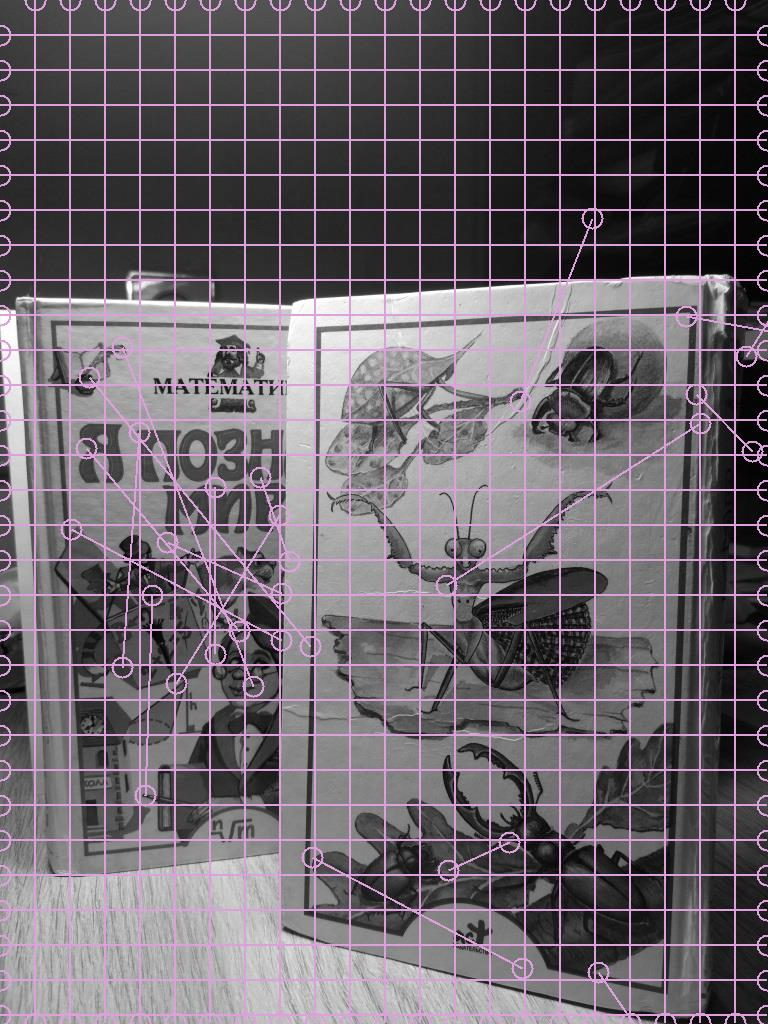
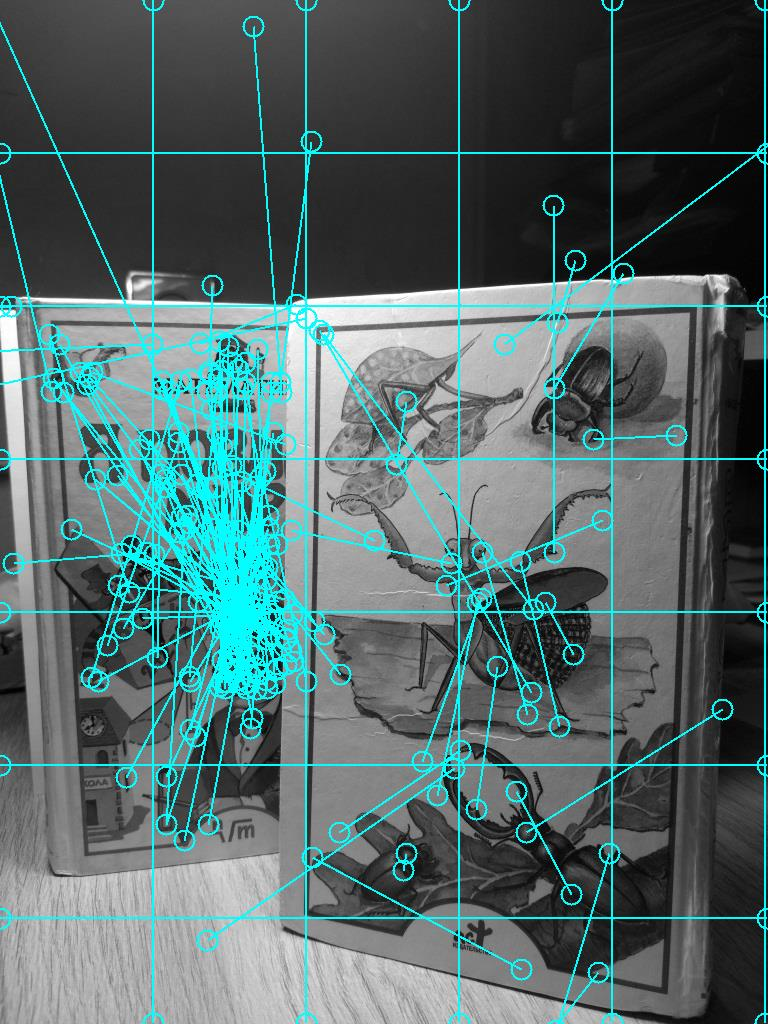
LR09 Внес некоторые изменения в подчет голосов. Точность поиска увеличилась

Changed region(s): [[0.0, 0.0, 1.0, 1.0], [0.3125, 0.9688, 0.3438, 1.0]]

diff --git a/ImageProcessingLabs/Transformation/Hough.cs b/ImageProcessingLabs/Transformation/Hough.cs
@@ -14,12 +14,12 @@ namespace ImageProcessingLabs.Transformation
 
     public class Hough
     {
-        private const int CoordinateStep = 70;
+        private int CoordinateStep = 100;
         private const int AngleCells = 12;
         private const double MinScale = 1 / 4D;
         private const double KScale = 2;
         private const int CellsScale = 4;
-        private const int VotersThreshold = 2;
+        private const int VotersThreshold = 4;
         private readonly Mat image;
         private readonly List<Point[]> objects = new List<Point[]>();
 
@@ -38,6 +38,8 @@ namespace ImageProcessingLabs.Transformation
 
         public List<Point[]> Find()
         {
+            CoordinateStep = Math.Min(image.Width, image.Height) / 5;
+
             var cellsX = (int)Math.Ceiling(image.Width * 1D / CoordinateStep);
             var cellsY = (int)Math.Ceiling(image.Height * 1D / CoordinateStep);
 
@@ -54,8 +56,8 @@ namespace ImageProcessingLabs.Transformation
                 DrawHelper.DrawLine(VotesImage, 0, y, image.Width - 1, y);
             }
 
-            var descriptors1 = BlobsFinder.FindBlobs(sample, 250);
-            var descriptors2 = BlobsFinder.FindBlobs(image, 250);
+            var descriptors1 = BlobsFinder.FindBlobs(sample, 500);
+            var descriptors2 = BlobsFinder.FindBlobs(image, 500);
             var matches = DescriptorMatcher.Nndr(descriptors2, descriptors1);
             ReverseMatches = matches.Select(x => new Match(x.Item2, x.Item1)).ToList();
 
@@ -91,7 +93,7 @@ namespace ImageProcessingLabs.Transformation
                         for (var s = 0; s < CellsScale; s++)
                             if (IsVotesLocalMaximum(x, y, a, s) && voters[x, y, a, s].Count > VotersThreshold)
                             {
-                                DrawHelper.DrawPolygon(VotesImage, GetPreliminary(x, y, a, s), true);
+                              //  DrawHelper.DrawPolygon(VotesImage, GetPreliminary(x, y, a, s), true);
                                 objects.Add(GetLocation(Ransac.CalculateTransform(voters[x, y, a, s])));
                             }
 

diff --git a/ImageProcessingLabs/HoughForm.cs b/ImageProcessingLabs/HoughForm.cs
@@ -39,8 +39,8 @@ namespace ImageProcessingLabs
             OutputPictureBoxVotes.SizeMode = PictureBoxSizeMode.Zoom;
             OutputPictureBoxResult.SizeMode = PictureBoxSizeMode.Zoom;
 
-            pictureSample = new Bitmap(PathToReadImage + "hough-4-sample.jpg");
-            pictureFull = new Bitmap(PathToReadImage + "hough-4-full.jpg");
+            pictureSample = new Bitmap(PathToReadImage + "hough-5-sample2.jpg");
+            pictureFull = new Bitmap(PathToReadImage + "hough-5-full.jpg");
 
             InputSample_pictureBox.Image = pictureSample;
             InputFull_PictureBox.Image = pictureFull;
@@ -48,8 +48,8 @@ namespace ImageProcessingLabs
 
         private void FindPointButton_Click(object sender, EventArgs e)
         {
-            var result = new Bitmap(PathToReadImage + "hough-4-full.jpg");
-            string imageName = "hough-full";
+            var result = new Bitmap(PathToReadImage + "hough-5-full.jpg");
+            string imageName = "hough-5-full";
 
             var imageSample = IOHelper.ImageToMat(pictureSample);
             var imageFull = IOHelper.ImageToMat(pictureFull);

diff --git a/ImageProcessingLabs/Helper/DrawHelper.cs b/ImageProcessingLabs/Helper/DrawHelper.cs
@@ -135,7 +135,7 @@ namespace ImageProcessingLabs.Helper
         {
             using (var g = Graphics.FromImage(img))
             {
-                var pen = new Pen(Color.Plum, 2);
+                var pen = new Pen(Color.Aqua, 2);
 
                 g.DrawLine(pen, x1, y1, x2, y2);
 
@@ -157,7 +157,7 @@ namespace ImageProcessingLabs.Helper
         {
             using (var g = Graphics.FromImage(image))
             {
-                var pen = new Pen(Color.Chartreuse, 2);
+                var pen = new Pen(Color.Chartreuse, 5);
                 g.DrawPolygon(pen, points);
                 if (corner)
                     g.DrawEllipse(pen, points[0].X - 8, points[0].Y - 8, 16, 16);

diff --git a/ImageProcessingLabs/DescriptorForm.cs b/ImageProcessingLabs/DescriptorForm.cs
@@ -135,8 +135,8 @@ namespace ImageProcessingLabs
 
             string name = PathToWriteImage + "resultPicture.jpg";
 
-            Bitmap bmp1 = new Bitmap(PathToReadImage + "City1.jpg");
-            Bitmap bmp2 = new Bitmap(PathToReadImage + "City2.jpg");
+            Bitmap bmp1 = new Bitmap(PathToReadImage + "bridge1.jpg");
+            Bitmap bmp2 = new Bitmap(PathToReadImage + "bridge2.jpg");
 
             var descriptorsABlobs = BlobsFinder.FindBlobs(IOHelper.ImageToMat(bmp1), maxPoints);
             var descriptorsBBlobs = BlobsFinder.FindBlobs(IOHelper.ImageToMat(bmp2), maxPoints);

diff --git a/ImageProcessingLabs/MainForm.cs b/ImageProcessingLabs/MainForm.cs
@@ -38,8 +38,8 @@ namespace ImageProcessingLabs
 
             image = IOHelper.ImageToMat(picture);
 
-            pictureA = new Bitmap("..\\..\\..\\..\\..\\Pictures\\City1.jpg");
-            pictureB = new Bitmap("..\\..\\..\\..\\..\\Pictures\\City2.jpg");
+            pictureA = new Bitmap("..\\..\\..\\..\\..\\Pictures\\bridge1.jpg");
+            pictureB = new Bitmap("..\\..\\..\\..\\..\\Pictures\\bridge2.jpg");
 
             imageA = IOHelper.ImageToMat(pictureA);
             imageB = IOHelper.ImageToMat(pictureB);

diff --git a/ImageProcessingLabs/Blobs/BlobsFinder.cs b/ImageProcessingLabs/Blobs/BlobsFinder.cs
@@ -16,7 +16,7 @@ namespace ImageProcessingLabs.Blobs
      //   private const int PointCount = 300;
         private const double InitSigma = 0.5;
         private const double StartSigma = 1.6;
-        private const double MinHarris = 0.01;
+        private const double MinHarris = 0.005;
         private const int ImageBorder = 3;
         private const int OctaveSize = 4;
 
